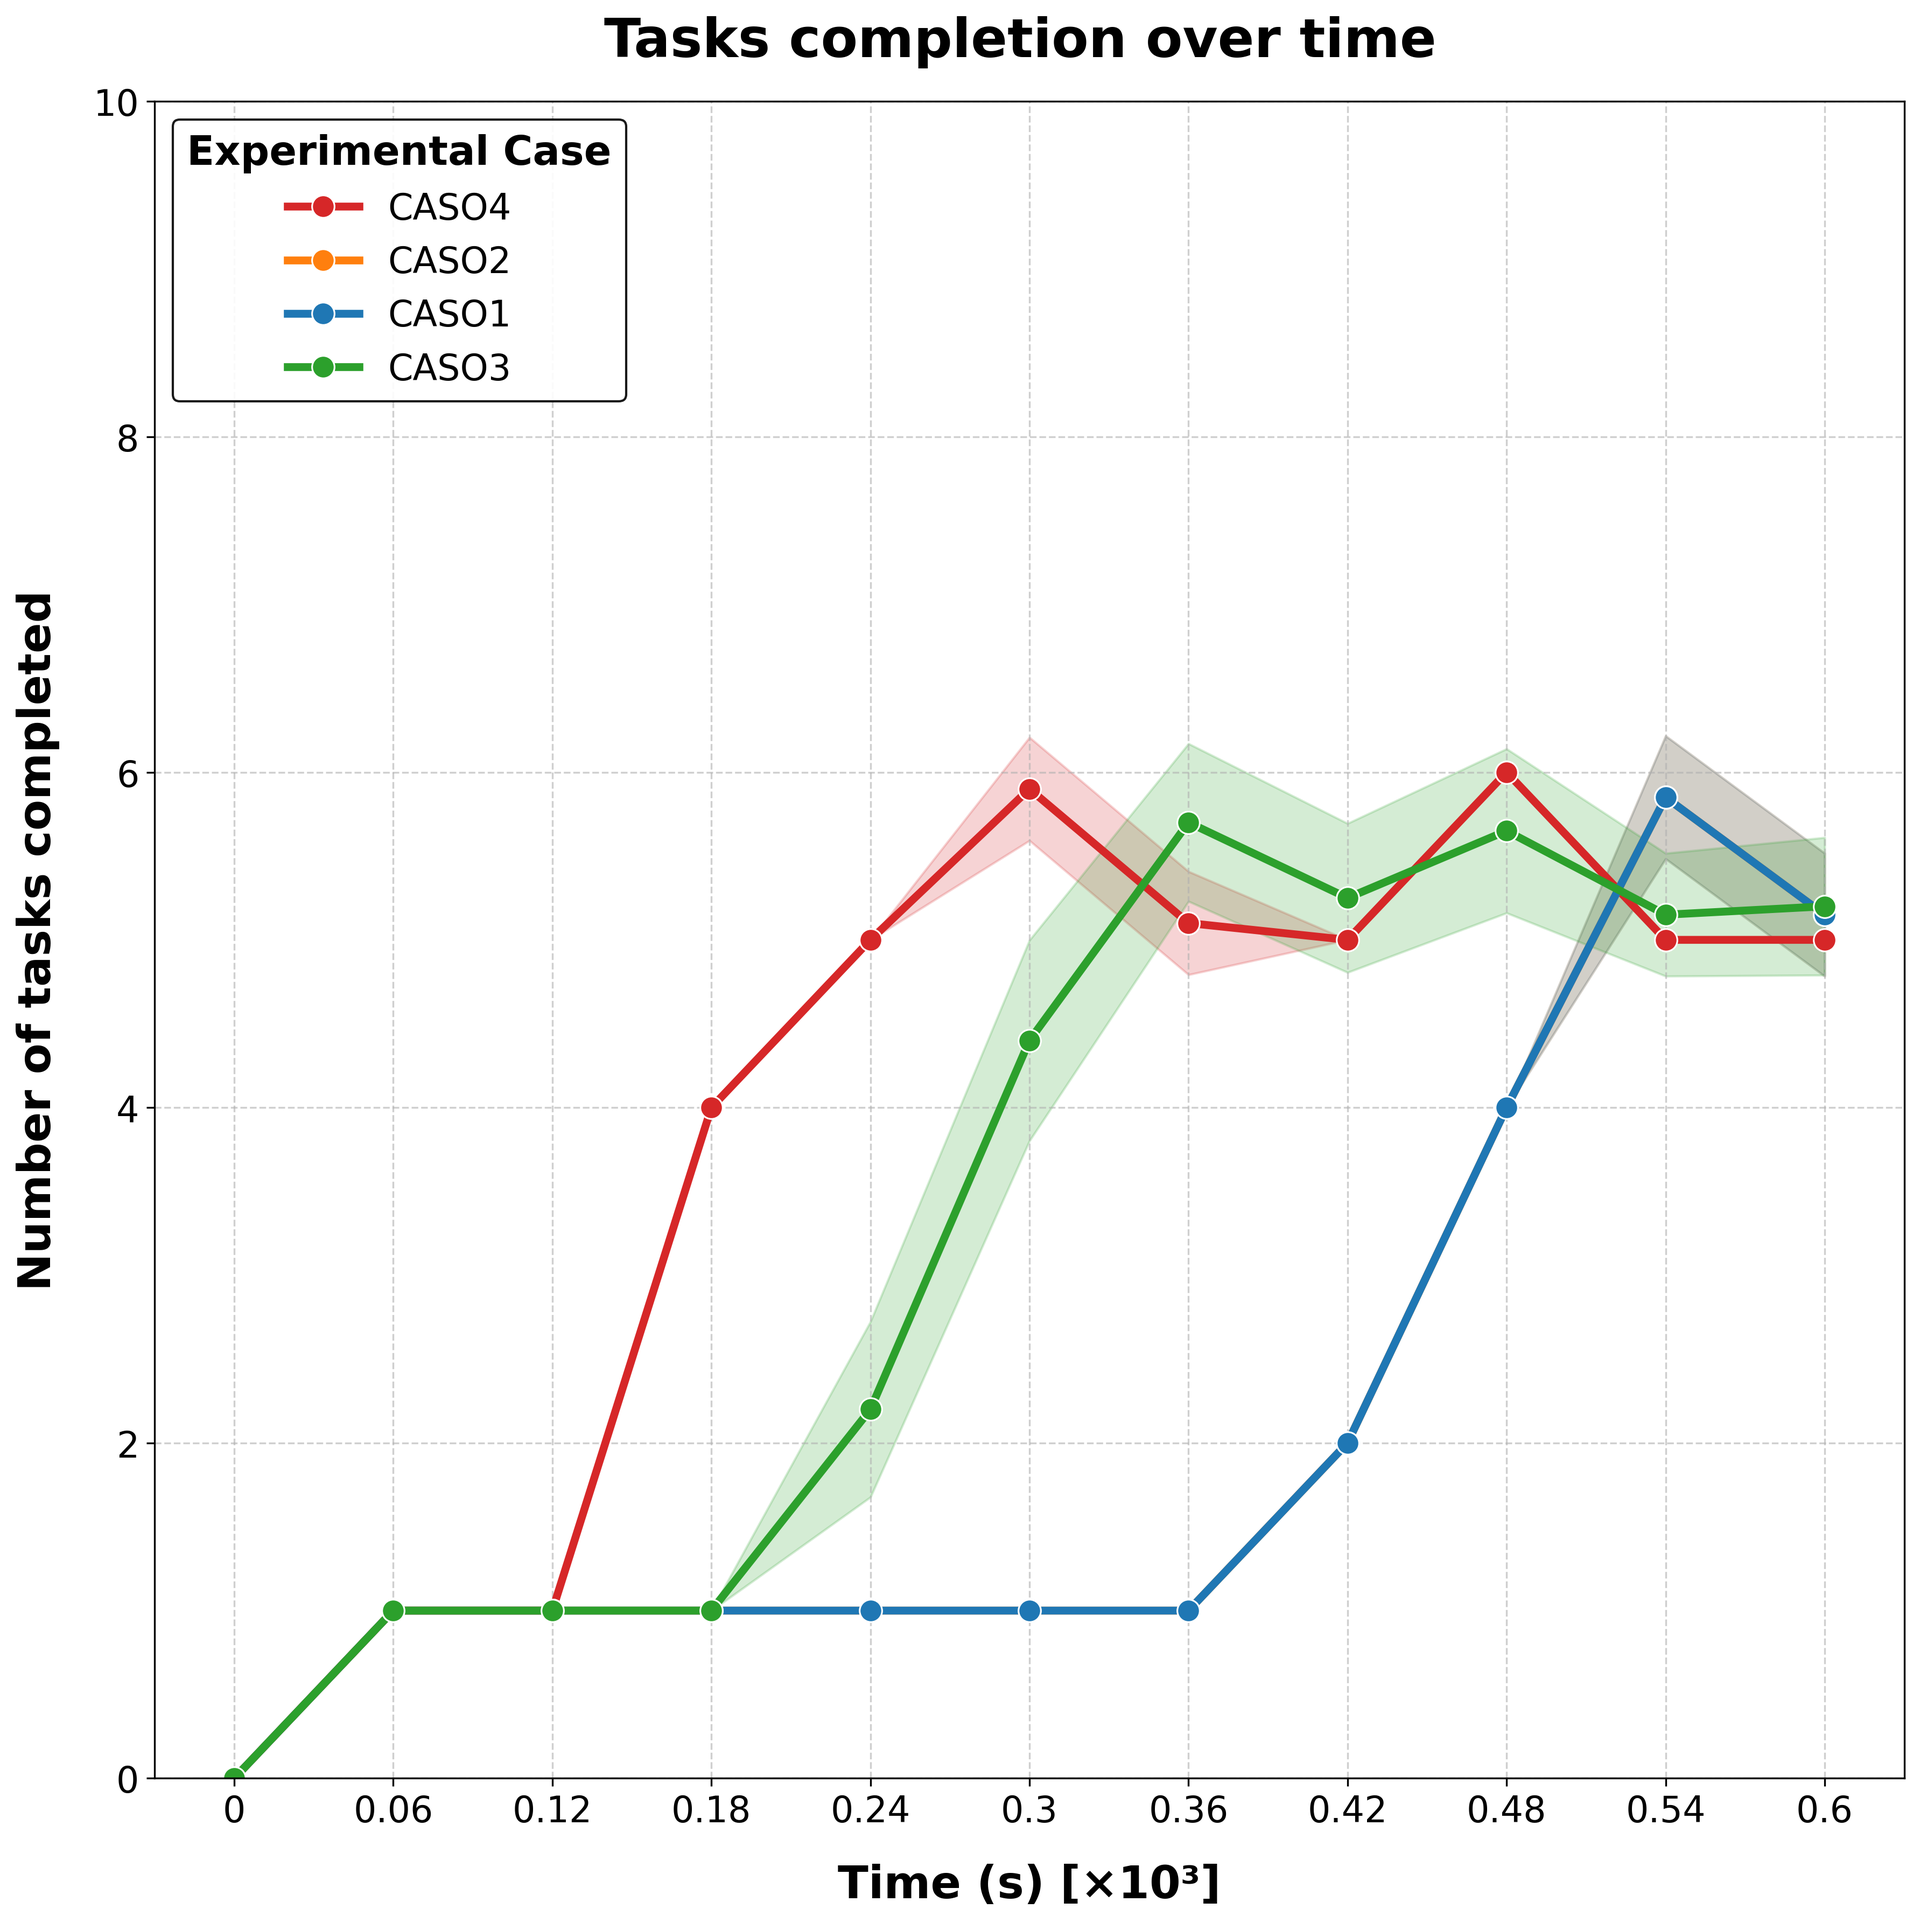
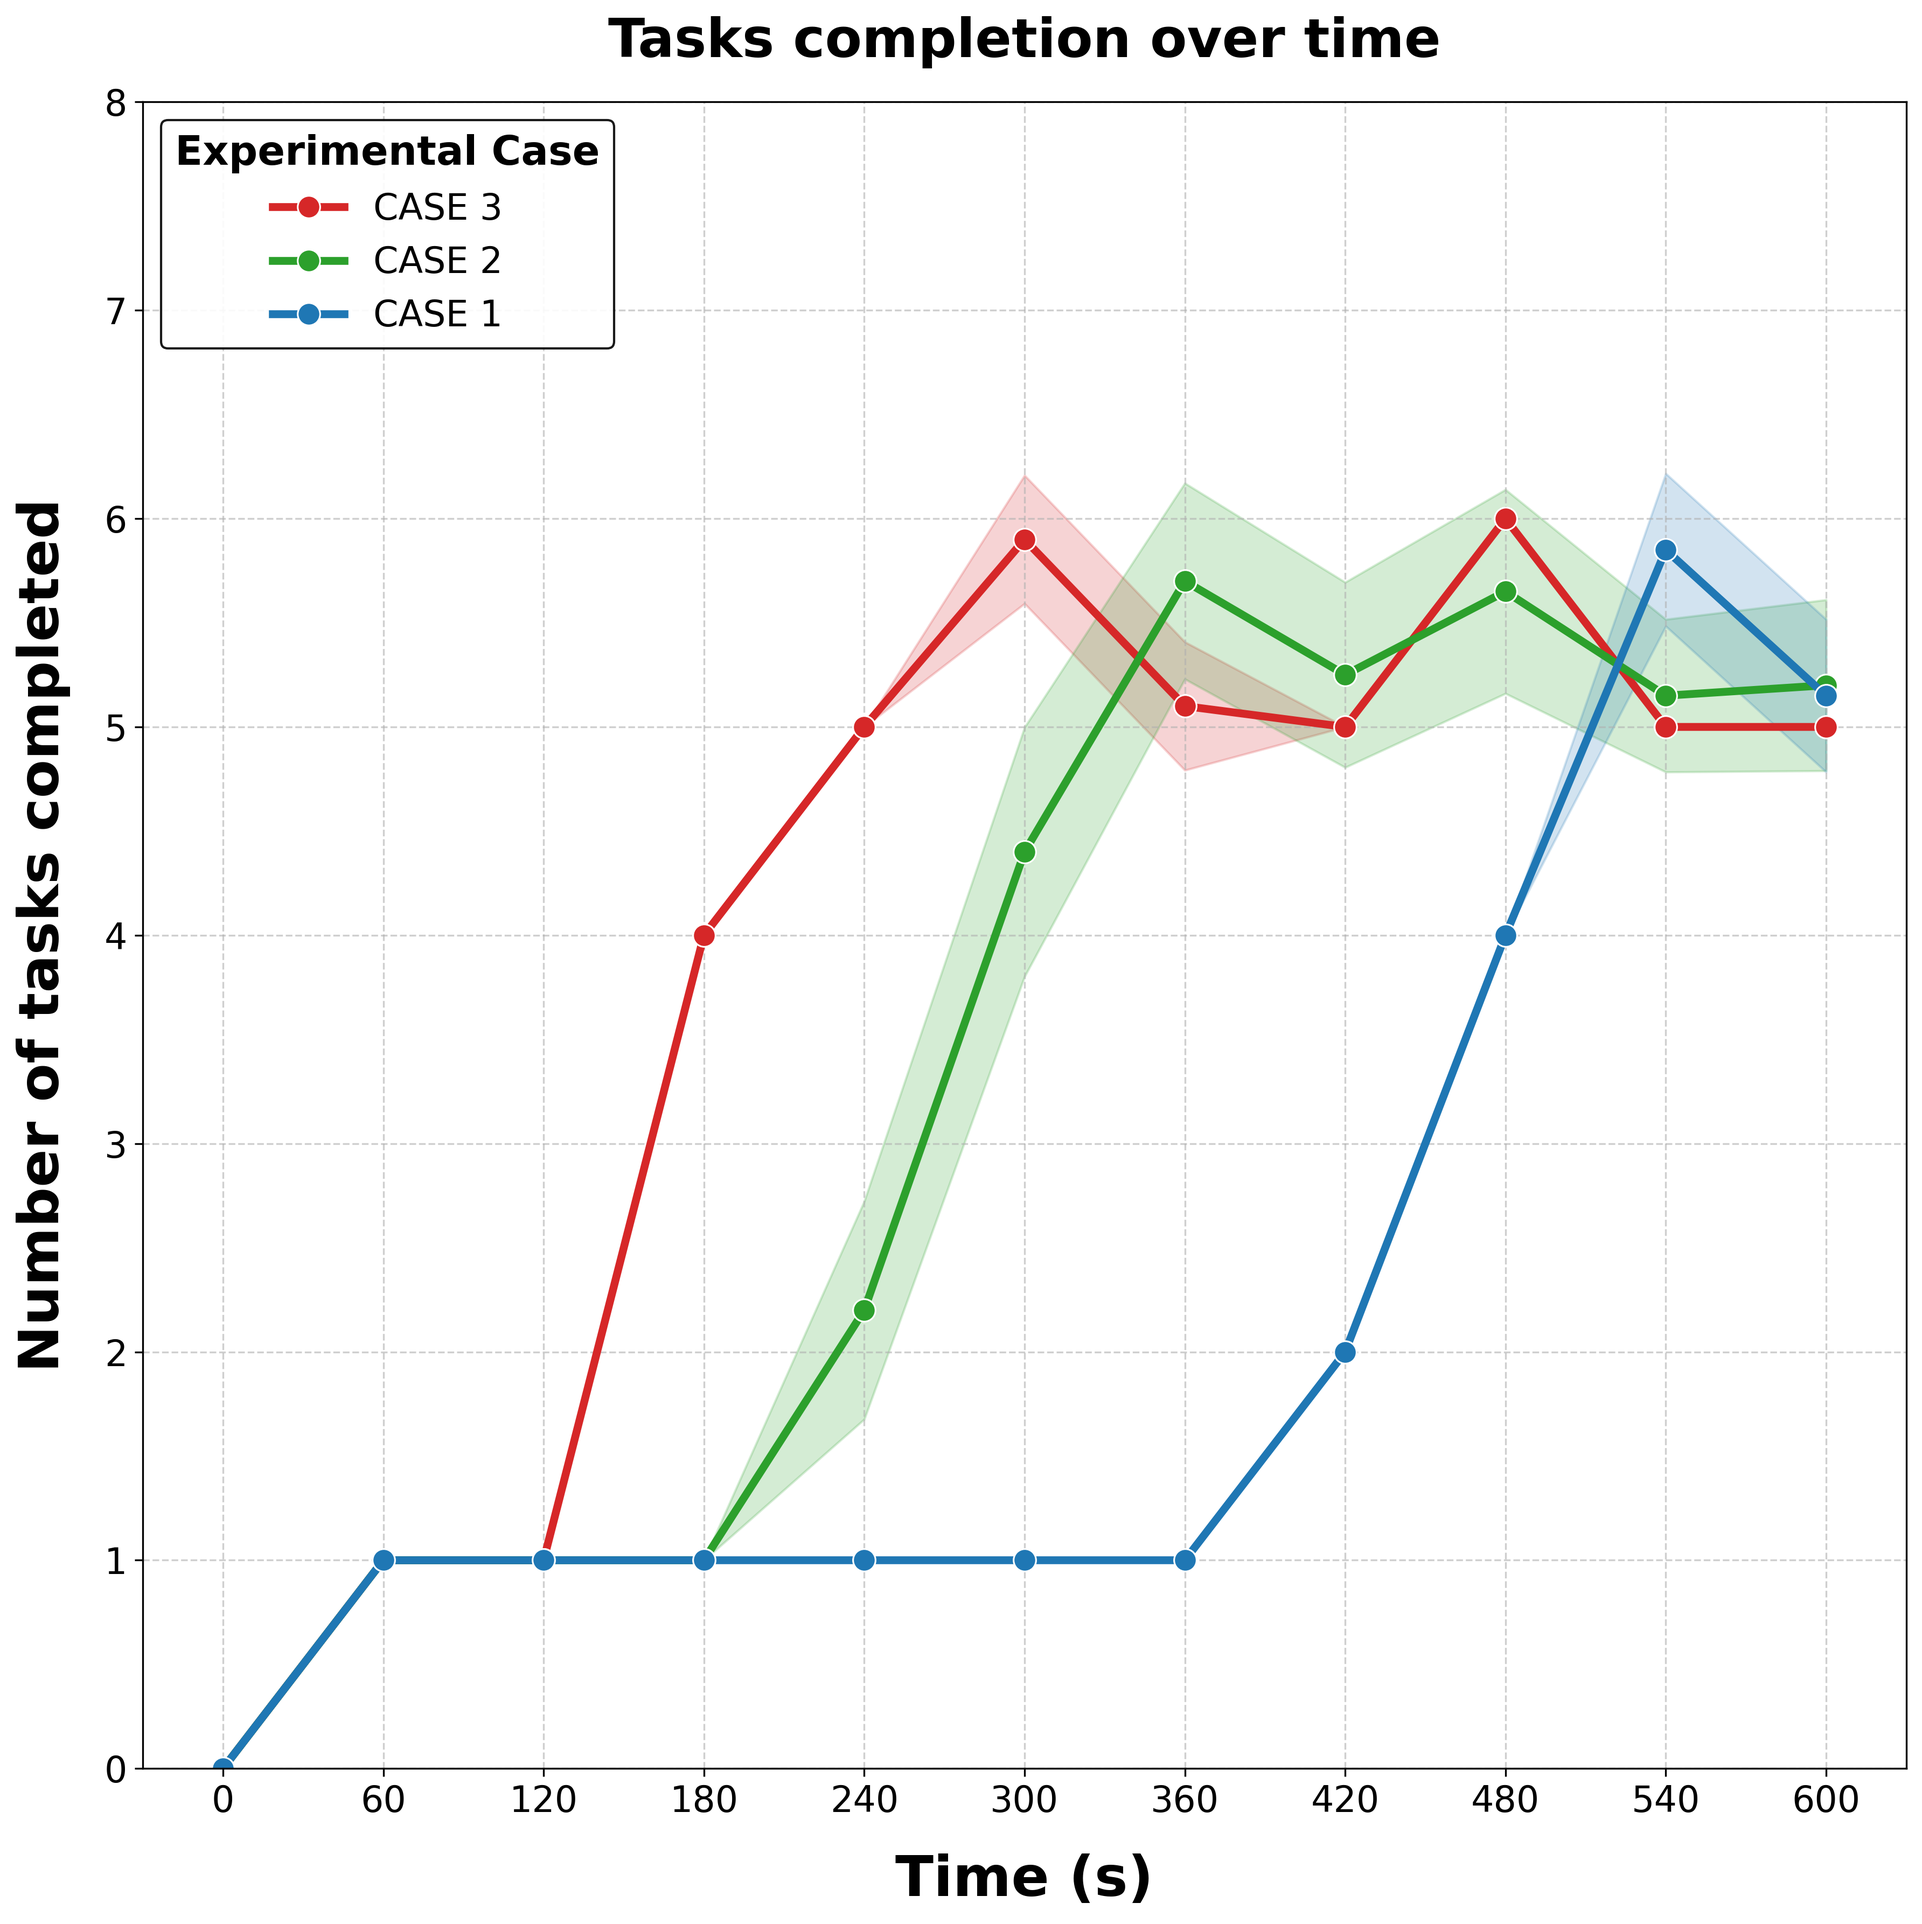
Arreglo de figuras y script de datos para setear que caso se desea ver

diff --git a/data_process_EXP.py b/data_process_EXP.py
@@ -152,18 +152,27 @@ class RobotDataProcessor:
         if save_dir: plt.savefig(Path(save_dir) / "cases_comparison_histograms.png", dpi=300, bbox_inches='tight')
         plt.show()
 
-    def plot_performance_trend(self, window_sec: int = 300, max_time_sec: int = 10000, save_path: Optional[str] = None) -> None:
+    def plot_performance_trend(self, window_sec: int = 300, max_time_sec: int = 10000, save_path: Optional[str] = None, target_cases: Optional[List[str]] = None) -> None:
         """Generates a continuous line plot showing tasks completed per time window with shaded variance."""
         if self.raw_data is None or self.raw_data.empty: return
         logger.info("Generating performance trend plot for cases")
         
-        df_all = self.raw_data.copy()
+        # ---> FILTRO DE CASOS CONFIGURABLE <---
+        base_df = self.raw_data.copy()
+        if target_cases is not None:
+            base_df = base_df[base_df['caso'].isin(target_cases)]
+            
+        if base_df.empty:
+            logger.warning("No data to plot after filtering by target_cases.")
+            return
+
+        df_all = base_df.copy()
         df_all['time_seconds_full'] = df_all['tick'] / self.ticks_per_sec
         df_all['time_window_full'] = (np.ceil(df_all['time_seconds_full'] / window_sec) * window_sec).astype(int)
         global_max_tasks = df_all.groupby(['caso', 'seed', 'time_window_full']).size().max()
         if pd.isna(global_max_tasks): global_max_tasks = 100
 
-        df = self.raw_data.copy()
+        df = base_df.copy()
 
         df = df[(df['time_seconds'] >= 0) & (df['time_seconds'] <= max_time_sec)]
         df['time_window'] = (np.ceil(df['time_seconds'] / window_sec) * window_sec).astype(int)
@@ -204,10 +213,10 @@ class RobotDataProcessor:
             x='time_window',
             y='tasks_completed',
             hue='caso',
-            palette=self.palette,
+            palette=self.palette, 
             marker='o',
-            linewidth=3.5, # Línea más gruesa
-            markersize=10, # Marcadores más grandes
+            linewidth=3.5, 
+            markersize=10, 
             errorbar='sd',
             ax=ax
         )
@@ -217,15 +226,14 @@ class RobotDataProcessor:
         ax.set_xticks(time_windows[::step])
         
         def time_formatter(x, pos):
-            return f"{x/1000:g}" if x != 0 else "0"
+            return f"{x/1:g}" if x != 0 else "0"
         ax.xaxis.set_major_formatter(FuncFormatter(time_formatter))
         
-        # ---> SI NECESITAS LÍMITE Y MANUAL, MODIFICA ESTA LÍNEA <---
-        ax.set_ylim(0, 10)
+        ax.set_ylim(0, 8)
 
-        ax.set_title("Tasks completion over time ", fontsize=24, fontweight='bold', pad=20)
-        ax.set_xlabel("Time (s) [×10³]", fontsize=20, fontweight='bold', labelpad=15)
-        ax.set_ylabel("Number of tasks completed", fontsize=20, fontweight='bold', labelpad=15)
+        ax.set_title("Tasks completion over time", fontsize=24, fontweight='bold', pad=20)
+        ax.set_xlabel("Time (s)", fontsize=25, fontweight='bold', labelpad=15)
+        ax.set_ylabel("Number of tasks completed", fontsize=25, fontweight='bold', labelpad=15)
         
         ax.tick_params(axis='both', which='major', labelsize=16)
         
@@ -234,6 +242,19 @@ class RobotDataProcessor:
         legend = ax.legend(title="Experimental Case", fontsize=16, loc='upper left', framealpha=0.9, edgecolor='black')
         legend.get_title().set_fontsize(18)
         legend.get_title().set_fontweight('bold')
+
+        # ---> RE-INDEXACIÓN DINÁMICA DE LA LEYENDA <---
+        # 1. Obtenemos los casos que realmente se graficaron y los ordenamos (ej: ['CASO1', 'CASO3', 'CASO4'])
+        plotted_cases = sorted(perf['caso'].unique())
+        
+        # 2. Creamos un diccionario de traducción: {'CASO1': 'CASE 1', 'CASO3': 'CASE 2', 'CASO4': 'CASE 3'}
+        case_mapping = {caso: f"CASE {i+1}" for i, caso in enumerate(plotted_cases)}
+
+        # 3. Aplicamos la traducción a los textos de la leyenda
+        for text in legend.get_texts():
+            current_text = text.get_text()
+            if current_text in case_mapping:
+                text.set_text(case_mapping[current_text])
 
         plt.tight_layout()
         if save_path: plt.savefig(save_path, dpi=300, bbox_inches='tight')
@@ -268,8 +289,8 @@ class RobotDataProcessor:
         # ax.set_ylim(0, 1000)
 
         ax.set_title("Spent Task Search Time per Case", fontsize=24, fontweight='bold', pad=20)
-        ax.set_ylabel("Search Time (s)", fontsize=20, fontweight='bold', labelpad=15)
-        ax.set_xlabel("Experimental Case", fontsize=20, fontweight='bold', labelpad=15)
+        ax.set_ylabel("Search Time (s)", fontsize=25, fontweight='bold', labelpad=15)
+        ax.set_xlabel("Experimental Case", fontsize=25, fontweight='bold', labelpad=15)
         
         ax.tick_params(axis='both', which='major', labelsize=16)
 
@@ -515,6 +536,7 @@ def main():
         processor.plot_performance_trend(
             window_sec=60,  
             max_time_sec=600,
+            target_cases=['CASO1', 'CASO3', 'CASO4'],  # None para incluir todos los casos
             save_path=f"{output_dir}/figure6_performance_trend_cases.png"
         )
 
